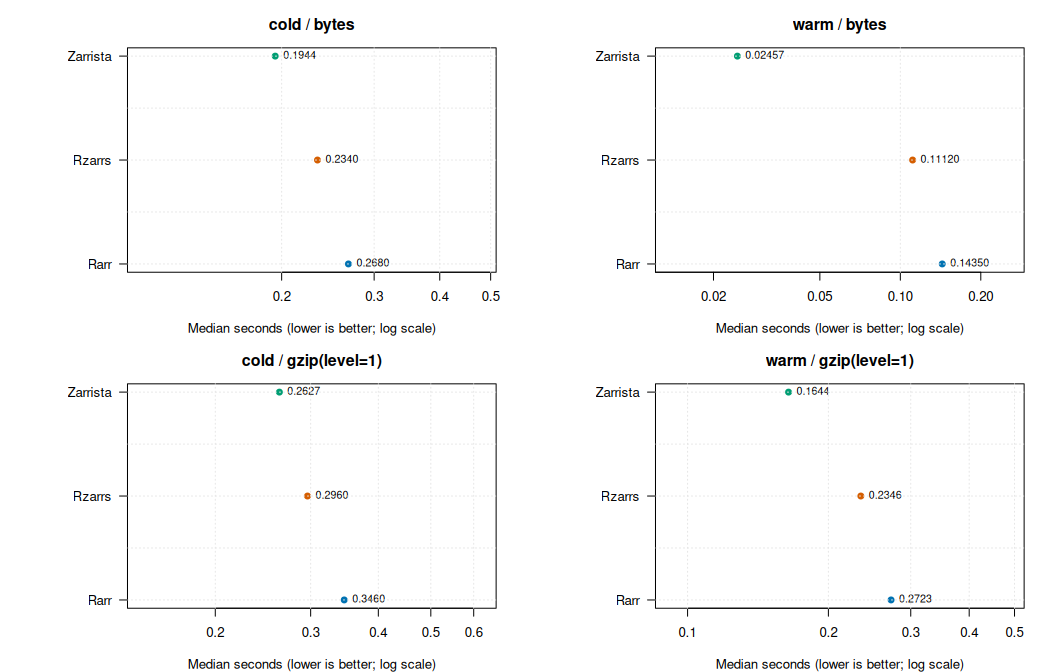
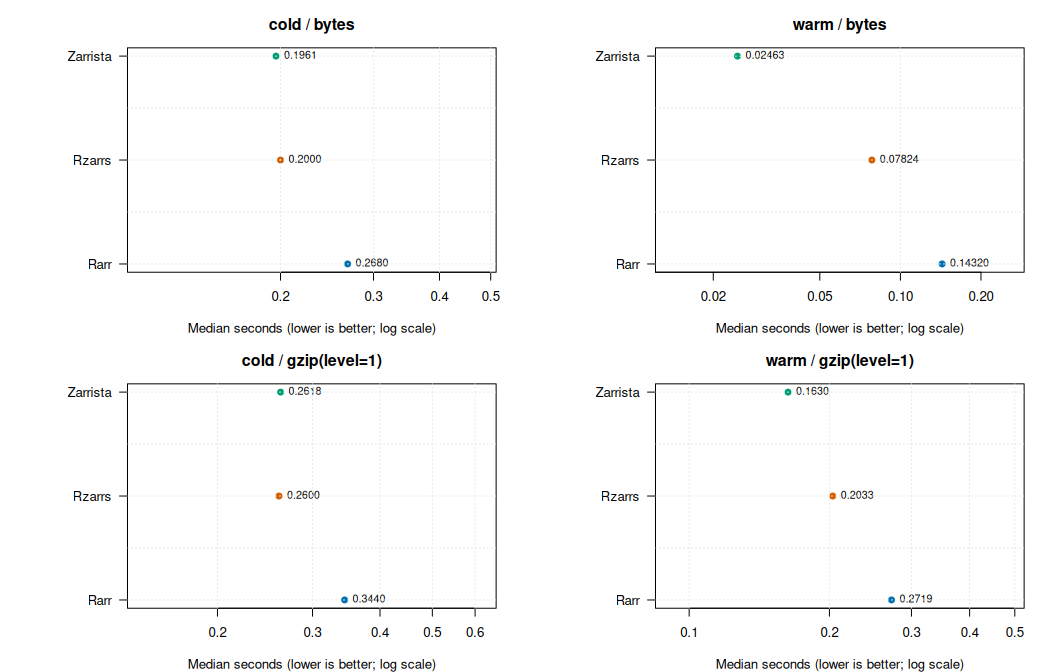
Refresh corrected scaling benchmark results

diff --git a/benchmarks/benchmark_large_payload.md b/benchmarks/benchmark_large_payload.md
@@ -5,6 +5,7 @@ Rzarrs large-payload warm-read diagnostic
 - [Method](#method)
 - [Artifact validation](#artifact-validation)
 - [Results](#results)
+- [Native profile](#native-profile)
 
 ## Question
 
@@ -148,8 +149,8 @@ knitr::kable(receipt_table, row.names = FALSE)
 
 | receipt                       | clean_source_revision                    |
 |:------------------------------|:-----------------------------------------|
-| warm/environment.txt          | 58fa33db9a66a545f76ae6c4ce03799998c27bfa |
-| warm/zarrista/environment.txt | 58fa33db9a66a545f76ae6c4ce03799998c27bfa |
+| warm/environment.txt          | ca6d803e457acb00f3cb63cf6937b714f1dd5733 |
+| warm/zarrista/environment.txt | ca6d803e457acb00f3cb63cf6937b714f1dd5733 |
 
 ## Results
 
@@ -171,21 +172,21 @@ knitr::kable(process_results, row.names = FALSE)
 
 | implementation | replicate |  median_s |
 |:---------------|:----------|----------:|
-| Rarr           | 1         | 3.5923240 |
-| Rarr           | 2         | 3.7619000 |
-| Rarr           | 3         | 3.6089030 |
-| Rarr           | 4         | 3.8054660 |
-| Rarr           | 5         | 3.6142980 |
-| Rzarrs         | 1         | 1.8351660 |
-| Rzarrs         | 2         | 1.8255230 |
-| Rzarrs         | 3         | 1.8323390 |
-| Rzarrs         | 4         | 1.8240220 |
-| Rzarrs         | 5         | 1.8368610 |
-| Zarrista       | 1         | 0.4307522 |
-| Zarrista       | 2         | 0.4317466 |
-| Zarrista       | 3         | 0.4327749 |
-| Zarrista       | 4         | 0.4307362 |
-| Zarrista       | 5         | 0.4315756 |
+| Rarr           | 1         | 3.3661770 |
+| Rarr           | 2         | 3.3534190 |
+| Rarr           | 3         | 3.3387530 |
+| Rarr           | 4         | 3.2761430 |
+| Rarr           | 5         | 3.4062050 |
+| Rzarrs         | 1         | 1.3049280 |
+| Rzarrs         | 2         | 1.3127730 |
+| Rzarrs         | 3         | 1.3083350 |
+| Rzarrs         | 4         | 1.3058540 |
+| Rzarrs         | 5         | 1.3078700 |
+| Zarrista       | 1         | 0.4413826 |
+| Zarrista       | 2         | 0.4534579 |
+| Zarrista       | 3         | 0.4426708 |
+| Zarrista       | 4         | 0.4416154 |
+| Zarrista       | 5         | 0.4558013 |
 
 ``` r
 reported <- stats::aggregate(
@@ -210,9 +211,9 @@ knitr::kable(reported, row.names = FALSE)
 
 | implementation |    min_s | median_s |    max_s | throughput_mib_s |
 |:---------------|---------:|---------:|---------:|-----------------:|
-| Rarr           | 3.592320 | 3.614300 | 3.805470 |          283.319 |
-| Rzarrs         | 1.824020 | 1.832340 | 1.836860 |          558.849 |
-| Zarrista       | 0.430736 | 0.431576 | 0.432775 |         2372.700 |
+| Rarr           | 3.276140 | 3.353420 | 3.406210 |          305.360 |
+| Rzarrs         | 1.304930 | 1.307870 | 1.312770 |          782.953 |
+| Zarrista       | 0.441383 | 0.442671 | 0.455801 |         2313.230 |
 
 ``` r
 medians <- stats::setNames(reported$median_s, reported$implementation)
@@ -229,15 +230,111 @@ knitr::kable(ratios, row.names = FALSE)
 
 | comparison           | speedup |
 |:---------------------|--------:|
-| Zarrista over Rzarrs | 4.24569 |
-| Rzarrs over Rarr     | 1.97251 |
+| Zarrista over Rzarrs | 2.95450 |
+| Rzarrs over Rarr     | 2.56403 |
 
-The 1 GiB medians are approximately 0.432 seconds for Zarrista, 1.832
-seconds for Rzarrs, and 3.614 seconds for Rarr. Zarrista remains about
-4.25 times faster than Rzarrs, while Rzarrs is about 1.97 times faster
-than Rarr. The persistence of the gap after a 16-fold payload increase
-argues against a small fixed R/Python wrapper cost as the dominant
-explanation. It does **not** prove that column-major transposition alone
-accounts for the difference; retrieval, ownership, allocation/page-fault
-behavior, conversion, and unmatched build configuration still need
-stage-level evidence.
+The 1 GiB medians are approximately 0.443 seconds for Zarrista, 1.308
+seconds for Rzarrs, and 3.353 seconds for Rarr. Zarrista is about 2.95
+times faster than Rzarrs, while Rzarrs is about 2.56 times faster than
+Rarr. The persistence of the gap after a 16-fold payload increase argues
+against a small fixed R/Python wrapper cost as the dominant explanation.
+It does **not** prove that column-major transposition alone accounts for
+the difference; retrieval, ownership, allocation/page-fault behavior,
+conversion, and unmatched build configuration still need stage-level
+evidence.
+
+## Native profile
+
+The committed profile drivers open the array once, perform one warm
+materialization, and then perform three more full materializations.
+`perf stat` repeated that whole process three times; `perf record`
+sampled a separate run at 499 Hz using user-space cycles. These counters
+include runtime startup and array open, so they support before/after
+diagnosis rather than replacing the timing table above.
+
+``` sh
+perf record -F 499 -e cycles:u --call-graph fp -- \
+  Rscript benchmarks/profile_large_rzarrs.R \
+  --store /tmp/rzarrs-large-fixtures/numeric-uncompressed.zarr
+
+perf record -F 499 -e cycles:u --call-graph fp -- \
+  "$ZARRISTA_PYTHON" benchmarks/profile_large_zarrista.py \
+  --store /tmp/rzarrs-large-fixtures/numeric-uncompressed.zarr
+```
+
+``` r
+profile_path <- "benchmark_large_payload_profile.csv"
+stopifnot(file.exists(profile_path))
+profile <- utils::read.csv(profile_path, stringsAsFactors = FALSE)
+profile_fields <- c(
+  "implementation", "mapper_variant", "source_revision",
+  "native_artifact_sha256", "profile_scope", "task_clock_ms", "cycles",
+  "instructions", "branches", "branch_misses", "cache_references",
+  "cache_misses", "minor_faults", "major_faults", "top_resolved_symbol",
+  "top_resolved_self_percent"
+)
+stopifnot(
+  identical(names(profile), profile_fields),
+  nrow(profile) == 3L,
+  !anyNA(profile),
+  !any(vapply(profile, function(column) {
+    any(trimws(as.character(column)) == "")
+  }, logical(1L))),
+  identical(profile$implementation, c("Rzarrs", "Rzarrs", "Zarrista"))
+)
+profile_report <- profile[c(
+  "implementation", "mapper_variant", "task_clock_ms", "cycles",
+  "instructions", "cache_references", "cache_misses",
+  "top_resolved_symbol", "top_resolved_self_percent"
+)]
+knitr::kable(profile_report, row.names = FALSE)
+```
+
+| implementation | mapper_variant               | task_clock_ms |      cycles | instructions | cache_references | cache_misses | top_resolved_symbol               | top_resolved_self_percent |
+|:---------------|:-----------------------------|--------------:|------------:|-------------:|-----------------:|-------------:|:----------------------------------|--------------------------:|
+| Rzarrs         | source-contiguous 32x32      |       7698.90 | 20285682523 |  14909391012 |        976847752 |    446558766 | rzarrs::try_for_each_c_to_r_order |                     71.33 |
+| Rzarrs         | destination-contiguous 32x32 |       5631.98 | 10070197448 |  14903037133 |        480051191 |    265465552 | rzarrs::try_for_each_c_to_r_order |                     42.53 |
+| Zarrista       | C-order NumPy context        |       2041.99 |  2686851996 |    445910801 |        104607505 |     57153274 | \_\_memmove_avx_unaligned_erms    |                     60.81 |
+
+``` r
+before <- profile[profile$mapper_variant == "source-contiguous 32x32", ]
+after <- profile[profile$mapper_variant == "destination-contiguous 32x32", ]
+stopifnot(nrow(before) == 1L, nrow(after) == 1L)
+fields <- c(
+  "task_clock_ms", "cycles", "instructions", "branches", "branch_misses",
+  "cache_references", "cache_misses", "minor_faults"
+)
+profile_change <- data.frame(
+  metric = fields,
+  before = as.numeric(before[1L, fields]),
+  after = as.numeric(after[1L, fields])
+)
+profile_change$reduction_percent <- signif(
+  100 * (profile_change$before - profile_change$after) /
+    profile_change$before,
+  5L
+)
+knitr::kable(profile_change, row.names = FALSE)
+```
+
+| metric           |       before |        after | reduction_percent |
+|:-----------------|-------------:|-------------:|------------------:|
+| task_clock_ms    | 7.698900e+03 | 5.631980e+03 |        26.8470000 |
+| cycles           | 2.028568e+10 | 1.007020e+10 |        50.3580000 |
+| instructions     | 1.490939e+10 | 1.490304e+10 |         0.0426170 |
+| branches         | 3.533013e+09 | 3.532239e+09 |         0.0219210 |
+| branch_misses    | 5.073265e+06 | 4.892733e+06 |         3.5585000 |
+| cache_references | 9.768478e+08 | 4.800512e+08 |        50.8570000 |
+| cache_misses     | 4.465588e+08 | 2.654656e+08 |        40.5530000 |
+| minor_faults     | 3.174304e+06 | 3.174275e+06 |         0.0009136 |
+
+Changing only the inner-loop orientation reduced task-clock by about
+27%, cycles by about 50%, and observed cache misses by about 41%, while
+instructions and minor faults were essentially unchanged. This is direct
+evidence that write locality—not fewer conversion instructions or
+delayed finalization—caused the improvement. The mapper’s leading
+resolved self-cycle share fell from 71.33% to 42.53%. It is still the
+largest resolved Rzarrs hotspot; Zarrista’s leading resolved symbol is
+`memmove` at 60.81%, and no explicit `to_numpy` hotspot appears in the
+sampled output. Symbol percentages exclude a substantial unresolved
+call-chain share and must not be treated as exact wall-time stages.

diff --git a/benchmarks/benchmark_rzarrs_rarr.md b/benchmarks/benchmark_rzarrs_rarr.md
@@ -273,18 +273,18 @@ knitr::kable(reported, row.names = FALSE)
 
 | mode | fixture                   | codec         | implementation | runtime | median_s |   mean_s | throughput_mib_s | max_rss_mib | cpu_percent |
 |:-----|:--------------------------|:--------------|:---------------|:--------|---------:|---------:|-----------------:|------------:|------------:|
-| cold | numeric-uncompressed.zarr | bytes         | Zarrista       | Python  | 0.194430 | 0.194430 |           329.17 |      105.73 |          51 |
-| warm | numeric-uncompressed.zarr | bytes         | Zarrista       | Python  | 0.024569 | 0.024664 |          2604.90 |      106.41 |          99 |
-| cold | numeric-gzip.zarr         | gzip(level=1) | Zarrista       | Python  | 0.262680 | 0.262680 |           243.65 |      106.52 |          74 |
-| warm | numeric-gzip.zarr         | gzip(level=1) | Zarrista       | Python  | 0.164380 | 0.164190 |           389.33 |      107.26 |          99 |
-| cold | numeric-uncompressed.zarr | bytes         | Rarr           | R       | 0.268000 | 0.268000 |           238.81 |      244.01 |          79 |
-| warm | numeric-uncompressed.zarr | bytes         | Rarr           | R       | 0.143490 | 0.158530 |           446.03 |      435.61 |          99 |
-| cold | numeric-gzip.zarr         | gzip(level=1) | Rarr           | R       | 0.346000 | 0.346000 |           184.97 |      244.79 |          82 |
-| warm | numeric-gzip.zarr         | gzip(level=1) | Rarr           | R       | 0.272300 | 0.272450 |           235.03 |      438.53 |          99 |
-| cold | numeric-uncompressed.zarr | bytes         | Rzarrs         | R       | 0.234000 | 0.234000 |           273.50 |      224.53 |          71 |
-| warm | numeric-uncompressed.zarr | bytes         | Rzarrs         | R       | 0.111170 | 0.120100 |           575.71 |      442.86 |          99 |
-| cold | numeric-gzip.zarr         | gzip(level=1) | Rzarrs         | R       | 0.296000 | 0.296000 |           216.22 |      225.28 |          80 |
-| warm | numeric-gzip.zarr         | gzip(level=1) | Rzarrs         | R       | 0.234640 | 0.242720 |           272.76 |      443.62 |          99 |
+| cold | numeric-uncompressed.zarr | bytes         | Zarrista       | Python  | 0.196090 | 0.196090 |           326.39 |      105.88 |          52 |
+| warm | numeric-uncompressed.zarr | bytes         | Zarrista       | Python  | 0.024632 | 0.024751 |          2598.30 |      106.41 |          99 |
+| cold | numeric-gzip.zarr         | gzip(level=1) | Zarrista       | Python  | 0.261800 | 0.261800 |           244.46 |      106.68 |          73 |
+| warm | numeric-gzip.zarr         | gzip(level=1) | Zarrista       | Python  | 0.163050 | 0.163370 |           392.53 |      107.39 |          99 |
+| cold | numeric-uncompressed.zarr | bytes         | Rarr           | R       | 0.268000 | 0.268000 |           238.81 |      244.01 |          78 |
+| warm | numeric-uncompressed.zarr | bytes         | Rarr           | R       | 0.143190 | 0.157870 |           446.96 |      435.50 |          99 |
+| cold | numeric-gzip.zarr         | gzip(level=1) | Rarr           | R       | 0.344000 | 0.344000 |           186.05 |      244.79 |          82 |
+| warm | numeric-gzip.zarr         | gzip(level=1) | Rarr           | R       | 0.271910 | 0.273490 |           235.38 |      438.52 |          99 |
+| cold | numeric-uncompressed.zarr | bytes         | Rzarrs         | R       | 0.200000 | 0.200000 |           320.00 |      224.38 |          70 |
+| warm | numeric-uncompressed.zarr | bytes         | Rzarrs         | R       | 0.078245 | 0.086614 |           817.95 |      442.71 |          99 |
+| cold | numeric-gzip.zarr         | gzip(level=1) | Rzarrs         | R       | 0.260000 | 0.260000 |           246.15 |      225.29 |          79 |
+| warm | numeric-gzip.zarr         | gzip(level=1) | Rzarrs         | R       | 0.203340 | 0.211080 |           314.74 |      443.77 |          99 |
 
 Cumulative R-profiled allocation and R garbage-collection counts are
 runtime-specific diagnostics, so they are reported separately rather
@@ -345,10 +345,10 @@ knitr::kable(wide, row.names = FALSE)
 
 | mode | fixture                   | codec         | median_s.Rarr | median_s.Rzarrs | rzarrs_speedup_over_rarr |
 |:-----|:--------------------------|:--------------|--------------:|----------------:|-------------------------:|
-| cold | numeric-uncompressed.zarr | bytes         |     0.2680000 |       0.2340000 |                   1.1453 |
-| warm | numeric-uncompressed.zarr | bytes         |     0.1434875 |       0.1111669 |                   1.2907 |
-| cold | numeric-gzip.zarr         | gzip(level=1) |     0.3460000 |       0.2960000 |                   1.1689 |
-| warm | numeric-gzip.zarr         | gzip(level=1) |     0.2723028 |       0.2346424 |                   1.1605 |
+| cold | numeric-uncompressed.zarr | bytes         |     0.2680000 |       0.2000000 |                   1.3400 |
+| warm | numeric-uncompressed.zarr | bytes         |     0.1431883 |       0.0782447 |                   1.8300 |
+| cold | numeric-gzip.zarr         | gzip(level=1) |     0.3440000 |       0.2600000 |                   1.3231 |
+| warm | numeric-gzip.zarr         | gzip(level=1) |     0.2719058 |       0.2033398 |                   1.3372 |
 
 ## Zarrista context baseline
 
